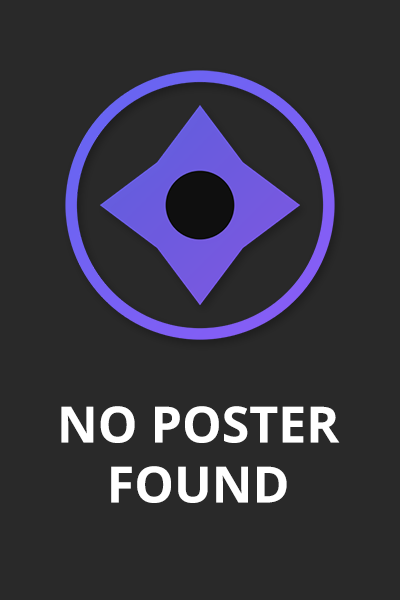
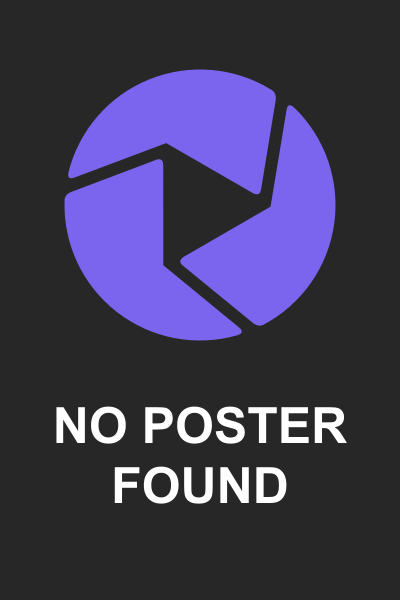
chore(release): prepare Aperture 1.0.0

Changed region(s): [[0.15, 0.09, 0.84, 0.57], [0.12, 0.66, 0.87, 0.84]]

diff --git a/apps/api/src/config/openapi.ts b/apps/api/src/config/openapi.ts
@@ -768,19 +768,18 @@ export function getSwaggerConfig(appBaseUrl: string): FastifyDynamicSwaggerOptio
 // Aperture logo SVG - exported for use in logo route
 export const apertureLogoSvg = `<svg xmlns="http://www.w3.org/2000/svg" viewBox="0 0 100 100">
   <defs>
-    <linearGradient id="grad" x1="0%" y1="0%" x2="100%" y2="100%">
-      <stop offset="0%" style="stop-color:#6366f1;stop-opacity:1" />
-      <stop offset="100%" style="stop-color:#8b5cf6;stop-opacity:1" />
-    </linearGradient>
+    <path id="blade" d="M7.3 39.4A44 44 0 0 1 73.32 12.69Q74.8 13.6 74.6 15.8L69.9 44.5Q69.6 47.5 67.1 46.1L39 29.9 9.2 41.1Q6.8 42 7.3 39.4Z"/>
   </defs>
-  <circle cx="50" cy="50" r="45" fill="none" stroke="url(#grad)" stroke-width="4"/>
-  <path d="M50 15 L65 35 L85 50 L65 65 L50 85 L35 65 L15 50 L35 35 Z" fill="url(#grad)" opacity="0.9"/>
-  <circle cx="50" cy="50" r="12" fill="#1a1a2e"/>
+  <g fill="#7c65ee">
+    <use href="#blade"/>
+    <use href="#blade" transform="rotate(120 50 50)"/>
+    <use href="#blade" transform="rotate(240 50 50)"/>
+  </g>
 </svg>`
 
 // Custom CSS to style Swagger UI with Aperture branding
 const customCss = `
-  .topbar-wrapper img { content: url("/api/logo.svg"); }
+  .topbar-wrapper img { content: url("/api/logo.svg?v=play-iris"); }
   .topbar-wrapper .link::after { content: "Aperture API"; margin-left: 8px; font-size: 1.5em; font-weight: bold; }
 `
 
@@ -815,5 +814,14 @@ export const swaggerUIConfig: FastifySwaggerUiOptions = {
   theme: {
     title: 'Aperture API',
     css: [{ filename: 'theme.css', content: customCss }],
+    favicon: [
+      {
+        filename: 'aperture.svg',
+        rel: 'icon',
+        type: 'image/svg+xml',
+        sizes: 'any',
+        content: apertureLogoSvg,
+      },
+    ],
   },
 }

diff --git a/packages/mcp/src/index.ts b/packages/mcp/src/index.ts
@@ -8,10 +8,10 @@ const token = process.env.APERTURE_MCP_TOKEN
 if (!baseUrl || !token) throw new Error('Set APERTURE_URL and APERTURE_MCP_TOKEN before starting the Aperture MCP bridge')
 const endpoint = new URL(`${baseUrl.replace(/\/$/, '')}/mcp`)
 if (!['http:', 'https:'].includes(endpoint.protocol) || endpoint.username || endpoint.password) throw new Error('APERTURE_URL must be an HTTP(S) URL without embedded credentials')
-const remote = new Client({ name: 'aperture-stdio-bridge', version: '0.8.0-dev.8.4' })
+const remote = new Client({ name: 'aperture-stdio-bridge', version: '1.0.0' })
 await remote.connect(new StreamableHTTPClientTransport(endpoint, { requestInit: { headers: { Authorization: `Bearer ${token}` } } }))
 const handle = serveStdio(() => {
-  const server = new Server({ name: 'Aperture', version: '0.8.0-dev.8.4' }, { capabilities: { tools: {} },
+  const server = new Server({ name: 'Aperture', version: '1.0.0' }, { capabilities: { tools: {} },
     instructions: 'Aperture exposes your accessible media, preferences and sourced release schedules. Only data sent to Aperture memory tools is retained from this client.' })
   server.setRequestHandler('tools/list', async () => remote.listTools())
   server.setRequestHandler('tools/call', async (request) => remote.callTool(request.params))

diff --git a/apps/web/index.html b/apps/web/index.html
@@ -2,13 +2,13 @@
 <html lang="en">
   <head>
     <meta charset="UTF-8" />
-    <link rel="icon" type="image/svg+xml" href="/aperture.svg" />
+    <link rel="icon" type="image/svg+xml" href="/aperture.svg?v=play-iris" />
     <meta name="viewport" content="width=device-width, initial-scale=1.0, viewport-fit=cover, interactive-widget=resizes-content" />
     <meta name="theme-color" content="#0f0f0f" />
     <meta name="apple-mobile-web-app-capable" content="yes" />
     <meta name="apple-mobile-web-app-status-bar-style" content="default" />
     <meta name="apple-mobile-web-app-title" content="Aperture" />
-    <link rel="apple-touch-icon" href="/icons/apple-touch-icon.png" />
+    <link rel="apple-touch-icon" sizes="180x180" href="/icons/apple-touch-icon.png?v=play-iris" />
     <link rel="manifest" href="/manifest.webmanifest" />
     <title>Aperture</title>
     <link rel="preconnect" href="https://fonts.googleapis.com" />

diff --git a/apps/api/src/routes/logo/index.ts b/apps/api/src/routes/logo/index.ts
@@ -9,7 +9,7 @@ const logoRoutes: FastifyPluginAsync = async (fastify) => {
   fastify.get('/api/logo.svg', async (_request, reply) => {
     return reply
       .header('Content-Type', 'image/svg+xml')
-      .header('Cache-Control', 'public, max-age=31536000') // Cache for 1 year
+      .header('Cache-Control', 'public, max-age=3600')
       .send(apertureLogoSvg)
   })
 }

diff --git a/docs/release-notes/v1.0.0.md b/docs/release-notes/v1.0.0.md
@@ -1,0 +1,61 @@
+# Aperture 1.0.0
+
+Aperture 1.0.0 brings the Encore workspace, the mobile app layout, Play Iris branding, and the recommendation and performance work from the development series to the stable channel. The previous stable version was 0.7.10.
+
+## At a glance
+
+| Area | What shipped |
+| --- | --- |
+| Encore | A persistent media consultant with conversation history, watch plans, editable memory, collections, and opt-in recurring curation. |
+| Mobile | A floating navigation dock, keyboard-aware composer, and standalone Home Screen launch into Encore. |
+| Play Iris | A new Aperture mark in the app, API documentation, fallback artwork, and Home Screen icons. |
+| Recommendations | Freshness controls, optional Emby publishing modes, and Tonight picks with temporary snoozes. |
+| Discovery and appearance | Faster Discovery and People reads, progressive upcoming episodes, and the optional Studio light and dark theme. |
+| Administration | Scoped MCP connections, tighter runtime API validation, and a media import job that runs independently of AI generation. |
+
+## Summary for users
+
+- Encore can consult your accessible library and viewing history, find releases, and help assemble a watch plan. Manage its saved memory, plans, collections, and connections from the workspace. Web search and recurring curation are opt-in. [Encore documentation](https://github.com/dgruhin-hrizn/aperture/blob/v1.0.0/docs/encore-rebuild.md)
+- Open Aperture from your Home Screen to launch Encore in standalone mode. The mobile dock keeps Discover, Library, Encore, Watching, and You within reach. Play Iris is used for the installed icon. [Mobile app documentation](https://github.com/dgruhin-hrizn/aperture/blob/v1.0.0/docs/mobile-app.md)
+- Choose Studio under **Avatar → Appearance** for a light, dark, or device-following theme. Discovery rows and People portraits load progressively, and Emby users can snooze a Tonight pick for 12 hours. [Appearance settings](https://github.com/dgruhin-hrizn/aperture/blob/v1.0.0/docs/features/user-settings/appearance.md)
+
+## Summary for admins
+
+- Configure recommendation outputs independently for movies and TV. Emby supports named TV groups, private native playlists where supported, and pinning Aperture-managed playlists to Home. **Import Media Server** syncs catalog and history without generating AI recommendations. [Output configuration](https://github.com/dgruhin-hrizn/aperture/blob/v1.0.0/docs/admin/output-format.md)
+- Create individually scoped, revocable MCP connections from Encore. Playlist actions require approval, and recurring curation runs only after explicit opt-in. [MCP setup and permissions](https://github.com/dgruhin-hrizn/aperture/blob/v1.0.0/docs/encore-mcp.md)
+
+## Database migrations
+
+Upgrades from 0.7.10 apply migrations **0115–0123**. These add recommendation suggestion history, Emby groups and managed playlists, Tonight snoozes, and storage for Encore messages, scoped connections, memory, plans, actions, and recurring curation. The suggestion-history migration backfills retained completed runs, and the Encore message migration assigns stable keys to existing messages.
+
+The supplied production Compose files apply pending migrations at startup and continue to use PostgreSQL 16 with pgvector. Back up the database and uploaded artwork before updating.
+
+## API and operator notes
+
+- `GET /health`, OpenAPI, and the web app report **1.0.0**.
+- The scoped Encore MCP endpoint uses Streamable HTTP at `/mcp`. The release also includes the standalone `aperture-mcp.mjs` bridge and its SHA-256 checksum for local stdio clients. [MCP connection instructions](https://github.com/dgruhin-hrizn/aperture/blob/v1.0.0/docs/encore-mcp.md)
+
+## Update instructions
+
+The stable image is `ghcr.io/dgruhin-hrizn/aperture:latest`. Pin `ghcr.io/dgruhin-hrizn/aperture:1.0.0` to keep this version.
+
+1. Back up PostgreSQL and uploaded artwork. Keep the existing database and mounts.
+2. From the directory containing your production Compose file, pull and restart Aperture.
+
+   ```bash
+   docker compose pull
+   docker compose up -d
+   ```
+
+3. Confirm the startup log shows successful migrations and `/health` reports **1.0.0**. Sign in and check Encore and your configured recommendation outputs.
+
+## Changelog since 0.7.10
+
+- Rebuilt Encore's conversation runtime and shared media tools with scoped MCP connections. [#120](https://github.com/dgruhin-hrizn/aperture/pull/120) · [#122](https://github.com/dgruhin-hrizn/aperture/pull/122)
+- Added Encore memory, watch plans, approved Emby actions, and opt-in recurring curation. [#124](https://github.com/dgruhin-hrizn/aperture/pull/124) · [#125](https://github.com/dgruhin-hrizn/aperture/pull/125)
+- Added mobile navigation and improved Encore search, release dates, and mobile result cards. [#127](https://github.com/dgruhin-hrizn/aperture/pull/127) · [#133](https://github.com/dgruhin-hrizn/aperture/pull/133) · [#137](https://github.com/dgruhin-hrizn/aperture/pull/137)
+- Improved Studio appearance, Discovery and People loading, upcoming episodes, and LAN and reverse-proxy access. [#113](https://github.com/dgruhin-hrizn/aperture/pull/113) · [#118](https://github.com/dgruhin-hrizn/aperture/pull/118) · [#119](https://github.com/dgruhin-hrizn/aperture/pull/119) · [#121](https://github.com/dgruhin-hrizn/aperture/pull/121)
+- Enforced runtime API contracts across Aperture. [#132](https://github.com/dgruhin-hrizn/aperture/pull/132)
+- Shipped Play Iris throughout the app and Home Screen experience.
+
+[Full comparison with 0.7.10](https://github.com/dgruhin-hrizn/aperture/compare/v0.7.10...v1.0.0)

diff --git a/README.md b/README.md
@@ -1,6 +1,6 @@
 # Aperture
 
-[![Version](https://img.shields.io/badge/version-0.8.0--dev.8.4-blue.svg)](https://github.com/dgruhin-hrizn/aperture/releases)
+[![Version](https://img.shields.io/badge/version-1.0.0-blue.svg)](https://github.com/dgruhin-hrizn/aperture/releases)
 [![Docker Image](https://img.shields.io/badge/docker-ghcr.io%2Fdgruhin--hrizn%2Faperture-blue?logo=docker)](https://github.com/dgruhin-hrizn/aperture/pkgs/container/aperture)
 [![License: AGPL v3](https://img.shields.io/badge/License-AGPL_v3-blue.svg)](LICENSE)
 
@@ -153,6 +153,7 @@ All schedules are configurable in **Admin → Jobs**.
 
 | Guide                                  | Description                                                  |
 | -------------------------------------- | ------------------------------------------------------------ |
+| [1.0.0 release notes](docs/release-notes/v1.0.0.md) | Encore, mobile and Home Screen updates, and upgrade notes |
 | [0.7.11 release notes](docs/release-notes/v0.7.11.md) | Emby publishing, recommendation freshness, and upgrade notes |
 | [Admin Guide](docs/admin-guide.md)     | Setup walkthrough, job management, algorithm tuning          |
 | [User Guide](docs/user-guide.md)       | Features for end users, ratings, channels                    |

diff --git a/docs/support-questionnaire.md b/docs/support-questionnaire.md
@@ -6,7 +6,7 @@ Please fill out this questionnaire before posting a support request. This helps 
 
 ## 📋 Basic Information
 
-**Aperture Version:** (e.g., v0.8.0-dev.8.4 - check Admin → Dashboard or container logs)
+**Aperture Version:** (e.g., v1.0.0, shown in Admin → Dashboard or the container logs)
 
 **Platform:**
 
